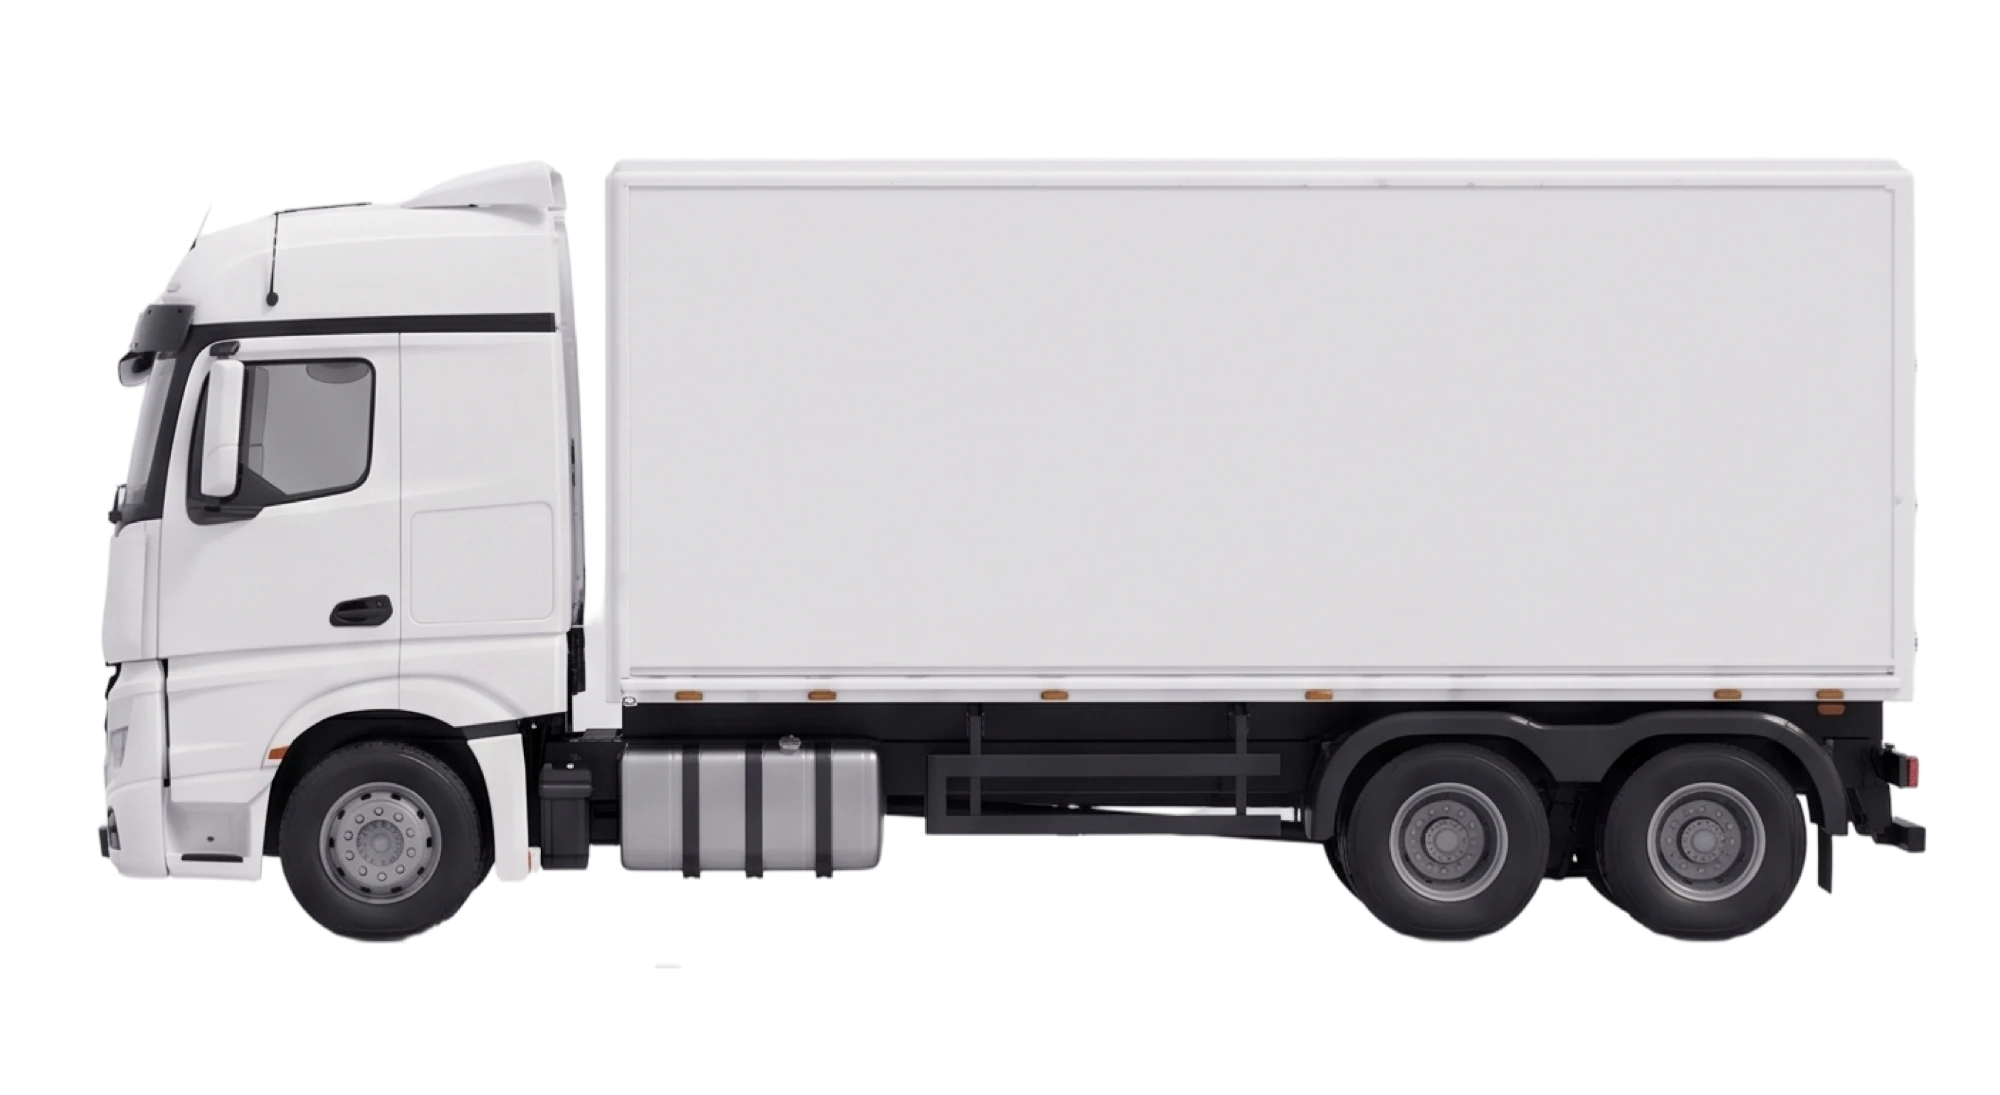
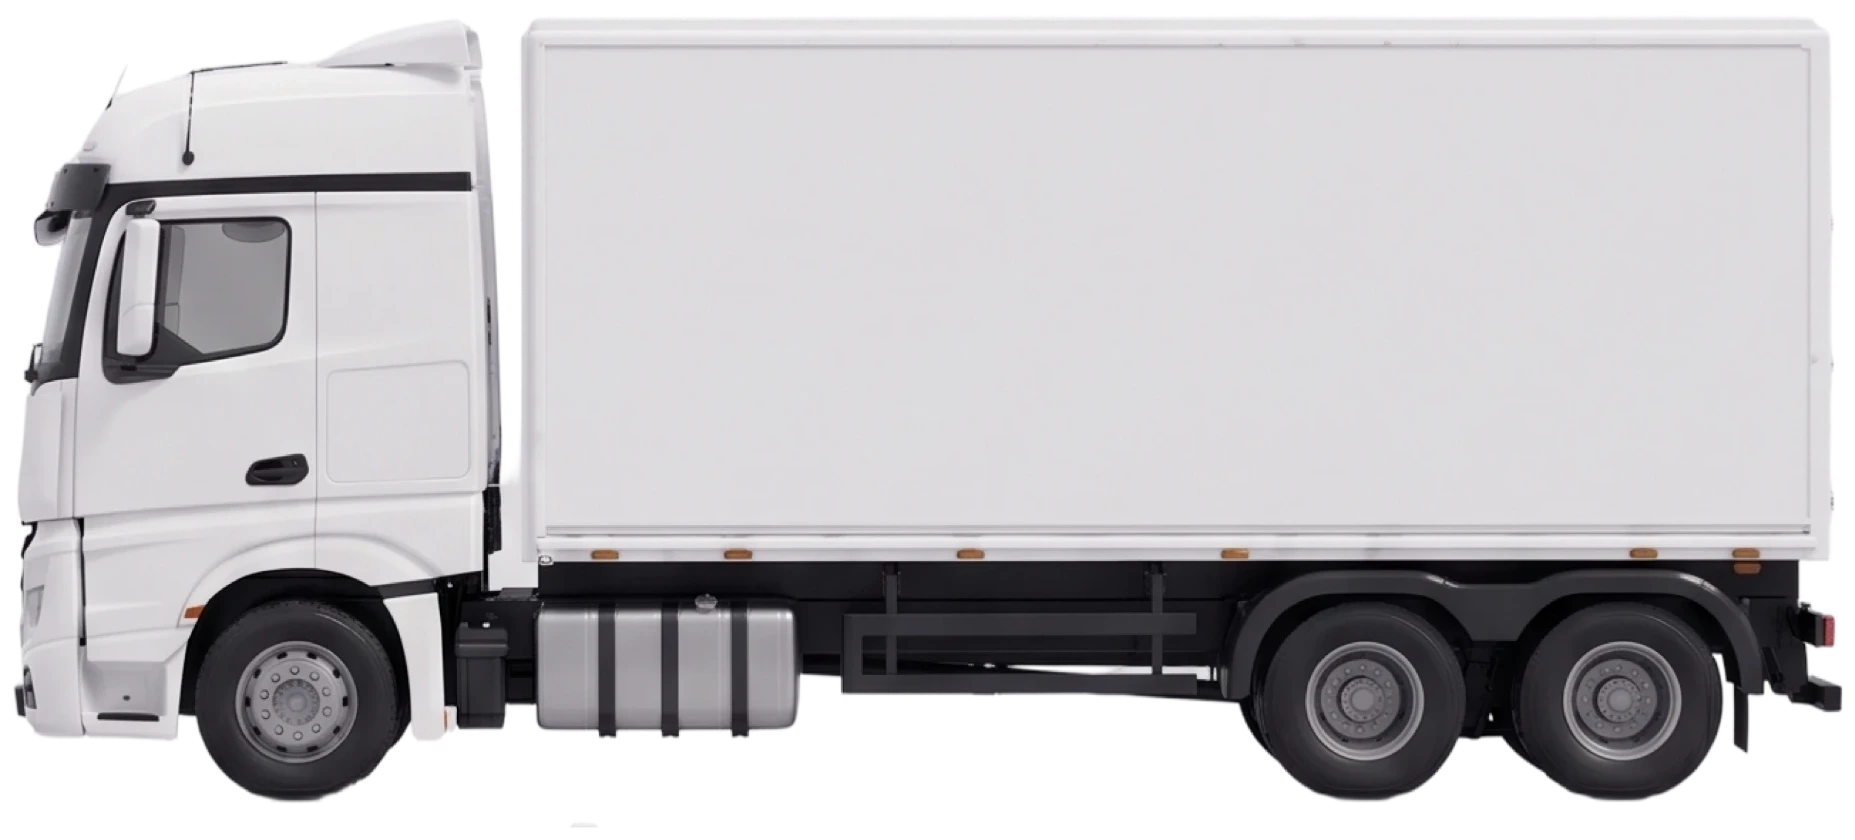
Trim the source photos so the crop lands on the truck, not blank canvas
The gap the vehicle card's crop was landing in wasn't a CSS padding
issue - the four reference photos each carried a lot of unused
transparent canvas (as little as 57% of the frame was actual vehicle),
so object-cover's crop window spent part of its width on that margin
instead of the truck. Tightly cropped all four to their real content
bounding box, and widened the card's image box (w-32 to w-48) so the
now-tighter crop shows more of each vehicle. Also fixed a real bug
along the way: Tailwind's preflight max-width:100% was silently
shrinking the image below its own w-32/h-32 size inside the grid
cell - added max-w-none so the box is exactly what the classes say.

diff --git a/dashboard/src/app/components/fleet/VehicleCard.tsx b/dashboard/src/app/components/fleet/VehicleCard.tsx
@@ -62,7 +62,7 @@ export default function VehicleCard({
         <img
           src={VEHICLE_TILE_IMAGES[truckType.baseClass]}
           alt=""
-          className="h-32 w-32 object-cover object-left-bottom flex-shrink-0 -mr-4 -mb-4"
+          className="h-32 w-48 max-w-none object-cover object-left-bottom flex-shrink-0 -mr-4 -mb-4"
         />
       </div>
     </button>
